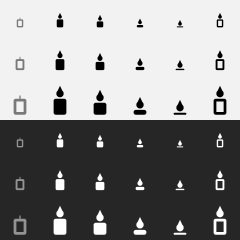
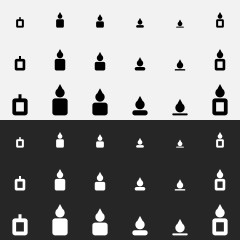
fix(tray): draw the candle larger and bolder
The unlit candle was a half-transparent hairline and nearly vanished
in the menu bar. The candle now fills more of the icon, strokes are
thicker, and every state draws at full strength. Off is an unlit
outline with a wick, and on is a lit candle that burns shorter.

diff --git a/src-tauri/src/core/candle.rs b/src-tauri/src/core/candle.rs
@@ -11,24 +11,17 @@ pub enum Glyph {
     Held,
 }
 
-#[derive(Clone, Copy, PartialEq)]
-enum Part {
-    Solid,
-    Track,
-}
-
 const SAMPLES: usize = 8;
-const LEFT: f64 = 0.30;
-const RIGHT: f64 = 0.70;
-const TOP: f64 = 0.46;
-const BOTTOM: f64 = 0.96;
-const CORNER: f64 = 0.07;
-const STROKE: f64 = 0.085;
-const FLAME_RADIUS: f64 = 0.115;
-const FLAME_HEIGHT: f64 = 0.36;
-const FLAME_GAP: f64 = 0.045;
-const WICK: f64 = 0.04;
-const TRACK_ALPHA: f64 = 0.5;
+const LEFT: f64 = 0.26;
+const RIGHT: f64 = 0.74;
+const TOP: f64 = 0.45;
+const BOTTOM: f64 = 0.98;
+const CORNER: f64 = 0.09;
+const STROKE: f64 = 0.12;
+const FLAME_RADIUS: f64 = 0.145;
+const FLAME_HEIGHT: f64 = 0.42;
+const FLAME_GAP: f64 = 0.03;
+const WICK: f64 = 0.09;
 
 /// Inside a rounded rectangle, in unit coordinates.
 fn in_body(x: f64, y: f64, top: f64, inset: f64) -> bool {
@@ -56,7 +49,7 @@ fn in_flame(x: f64, y: f64, base: f64) -> bool {
     y >= tip && y <= cy && (x - 0.5).abs() <= FLAME_RADIUS * (y - tip) / (cy - tip)
 }
 
-fn part_at(x: f64, y: f64, glyph: Glyph) -> Option<Part> {
+fn covered(x: f64, y: f64, glyph: Glyph) -> bool {
     let level = match glyph {
         Glyph::Off => 0.0,
         Glyph::Remaining(value) => value.clamp(0.0, 1.0),
@@ -66,15 +59,15 @@ fn part_at(x: f64, y: f64, glyph: Glyph) -> Option<Part> {
     let height = BOTTOM - TOP;
     let surface = BOTTOM - height * level.max(0.12);
     if lit && in_flame(x, y, surface - FLAME_GAP) {
-        return Some(Part::Solid);
+        return true;
     }
     let outline = in_body(x, y, TOP, 0.0) && !in_body(x, y, TOP, STROKE);
     match glyph {
-        Glyph::Held => outline.then_some(Part::Solid),
-        _ if lit => in_body(x, y, surface, 0.0).then_some(Part::Solid),
+        Glyph::Held => outline,
+        _ if lit => in_body(x, y, surface, 0.0),
         _ => {
-            let stub = (x - 0.5).abs() <= WICK / 2.0 && (TOP - 0.1..TOP + STROKE).contains(&y);
-            (outline || stub).then_some(Part::Track)
+            let stub = (x - 0.5).abs() <= WICK / 2.0 && (TOP - 0.13..TOP + STROKE).contains(&y);
+            outline || stub
         }
     }
 }
@@ -90,24 +83,19 @@ pub fn raster(size: u32, glyph: Glyph) -> Vec<Pixel> {
     let mut pixels = Vec::with_capacity((size * size) as usize);
     for y in 0..size {
         for x in 0..size {
-            let (mut covered, mut alpha) = (0.0, 0.0);
+            let mut hits = 0.0;
             for sy in 0..SAMPLES {
                 for sx in 0..SAMPLES {
                     let ux = (f64::from(x) + (sx as f64 + 0.5) / SAMPLES as f64) / extent;
                     let uy = (f64::from(y) + (sy as f64 + 0.5) / SAMPLES as f64) / extent;
-                    if let Some(part) = part_at(ux, uy, glyph) {
-                        covered += 1.0;
-                        alpha += if part == Part::Track {
-                            TRACK_ALPHA
-                        } else {
-                            1.0
-                        };
+                    if covered(ux, uy, glyph) {
+                        hits += 1.0;
                     }
                 }
             }
             pixels.push(Pixel {
-                coverage: covered / total,
-                alpha: (alpha / total * 255.0).round() as u8,
+                coverage: hits / total,
+                alpha: (hits / total * 255.0).round() as u8,
             });
         }
     }
@@ -194,7 +182,7 @@ mod tests {
             let flame = (0.5, TOP - FLAME_GAP - FLAME_RADIUS);
             assert_eq!(at(size, Glyph::Full, flame.0, flame.1), 255);
             assert_eq!(at(size, Glyph::Held, flame.0, flame.1), 255);
-            assert!(at(size, Glyph::Off, flame.0, flame.1) < 255);
+            assert_eq!(at(size, Glyph::Off, LEFT + 0.03, flame.1), 0);
             let upper_body = (LEFT + 0.06, TOP + 0.05);
             assert_eq!(
                 at(size, Glyph::Remaining(0.3), upper_body.0, upper_body.1),
